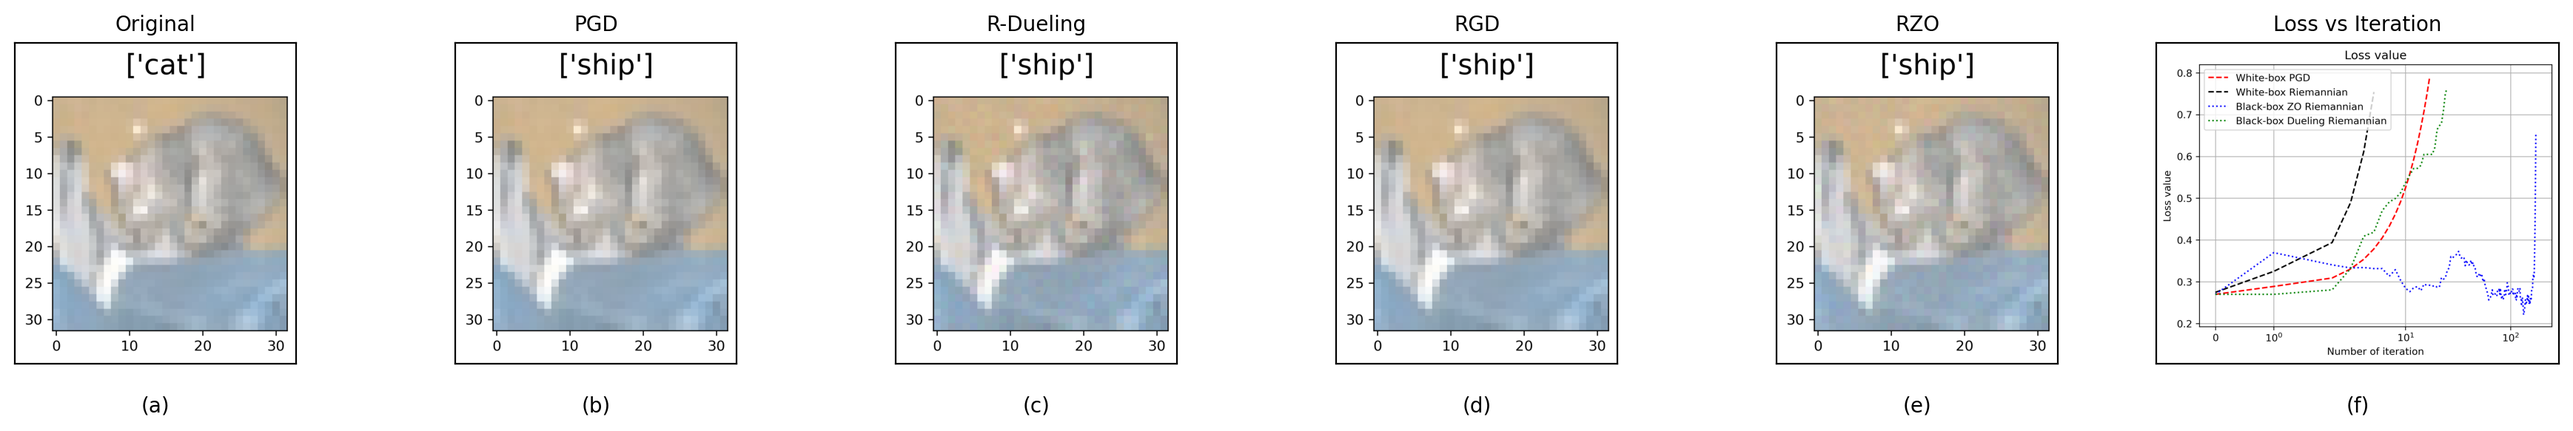
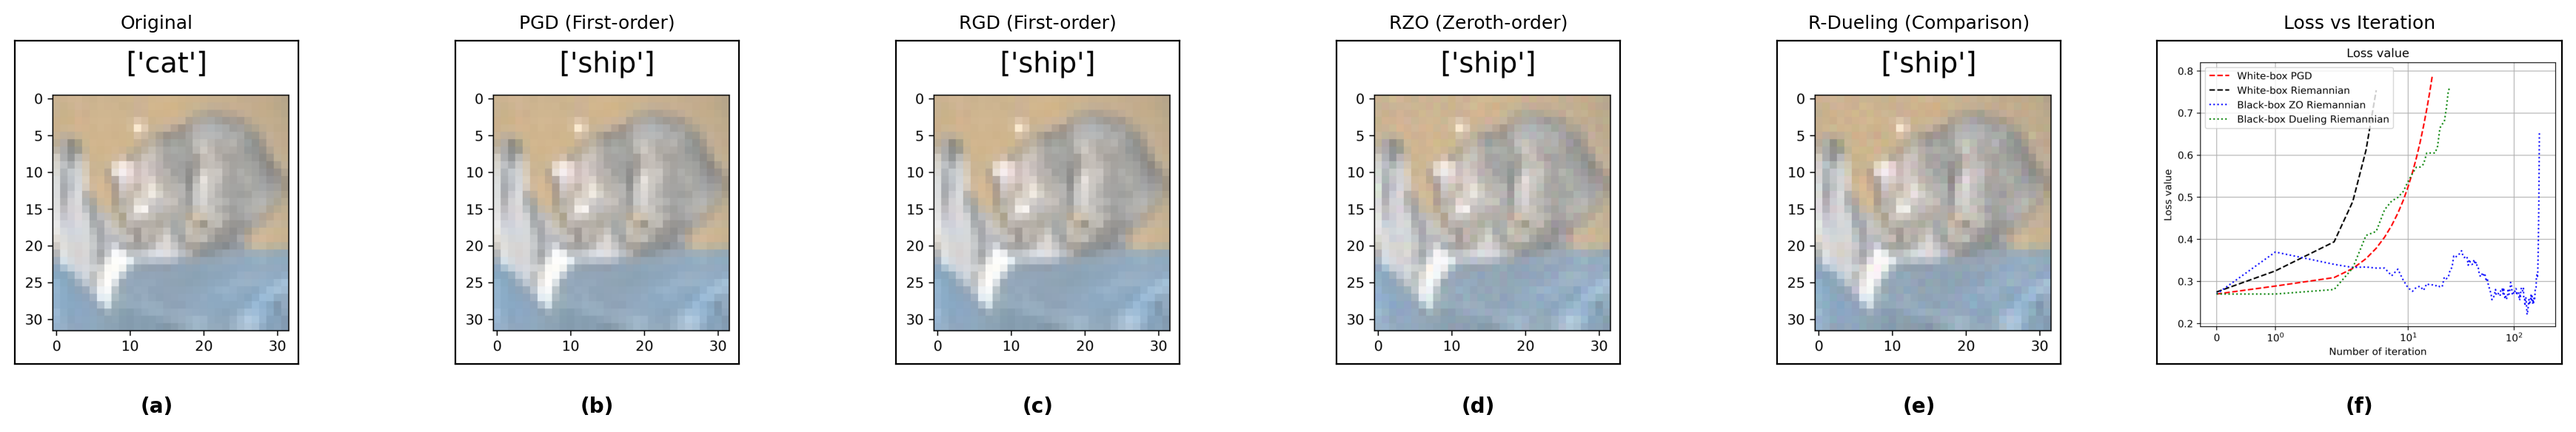
change plots order

diff --git a/scripts/make_figure.py b/scripts/make_figure.py
@@ -2,22 +2,32 @@ import os
 from PIL import Image
 import matplotlib.pyplot as plt
 
+# --- Configuration ---
 results_dir = "results"
-prefix = "1_"  
+prefix = "1_"  # change this prefix to select another example
 out_path = os.path.join(results_dir, f"{prefix}figure.png")
 
+# Order of images (a)-(f)
 order = [
-    f"{prefix}Original_['cat'].png",   # (a)
-    f"{prefix}PGD_['ship'].png",       # (b)
-    f"{prefix}RDueling_['ship'].png",  # (c)
-    f"{prefix}RGD_['ship'].png",       # (d)
-    f"{prefix}RZO_['ship'].png",       # (e)
-    f"{prefix}loss_vs_iteration.png"   # (f)
+    f"{prefix}Original_['cat'].png",     # (a)
+    f"{prefix}PGD_['ship'].png",         # (b)
+    f"{prefix}RGD_['ship'].png",         # (c)
+    f"{prefix}RZO_['ship'].png",         # (d)
+    f"{prefix}RDueling_['ship'].png",    # (e)
+    f"{prefix}loss_vs_iteration.png"     # (f)
 ]
 
 labels = ["(a)", "(b)", "(c)", "(d)", "(e)", "(f)"]
-titles = ["Original", "PGD", "R-Dueling", "RGD", "RZO", "Loss vs Iteration"]
+titles = [
+    "Original",
+    "PGD (First-order)",
+    "RGD (First-order)",
+    "RZO (Zeroth-order)",
+    "R-Dueling (Comparison)",
+    "Loss vs Iteration"
+]
 
+# --- Load images ---
 imgs = []
 for fn in order:
     path = os.path.join(results_dir, fn)
@@ -27,18 +37,24 @@ for fn in order:
         imgs.append(None)
         print(f"[Warning] Missing: {fn}")
 
-
+# --- Create figure ---
 fig, axes = plt.subplots(1, 6, figsize=(18, 3))
+
 for i, ax in enumerate(axes):
     img = imgs[i]
     if img is not None:
         ax.imshow(img)
-        ax.set_title(titles[i], fontsize=10)
+        ax.set_title(titles[i], fontsize=9)
+    else:
+        ax.text(0.5, 0.5, "Missing", ha="center", va="center", fontsize=9, color="red")
+        ax.set_facecolor("lightgray")
+
     ax.set_xticks([])
     ax.set_yticks([])
-    ax.text(0.5, -0.15, labels[i], transform=ax.transAxes, ha="center", fontsize=10)
+    ax.text(0.5, -0.15, labels[i], transform=ax.transAxes,
+            ha="center", fontsize=10, fontweight="bold")
 
 plt.tight_layout()
 plt.savefig(out_path, dpi=200, bbox_inches="tight")
 plt.close()
-print(f"Saved combined figure: {out_path}")
+print(f"[Saved] Combined figure → {out_path}")

diff --git a/README.md b/README.md
@@ -30,13 +30,13 @@ The six subplots represent:
 
 **First-order methods** (require gradient information):  
 (b) Projected Gradient Descent (PGD) attack result  
-(d) Riemannian Gradient Descent (RGD) attack result  
+(c) Riemannian Gradient Descent (RGD) attack result  
 
 **Zeroth-order methods** (require function values only):  
-(e) RZO attack result  
+(d) Riemannian Zeroth Order (RZO) attack result  
 
 **Comparison-oracle method:**  
-(c) Riemannian Dueling (R-Dueling) attack result  
+(e) Riemannian Dueling (R-Dueling) attack result  
 
 (f) Loss vs. iteration
 
@@ -126,3 +126,5 @@ The dataset used for the **Horizon-Leveling Optimization** experiments is the **
 
 > *Note:* The **CIFAR-10** dataset used in the *Dueling Attack* experiments is a public benchmark dataset originally introduced by **Alex Krizhevsky, Vinod Nair, and Geoffrey Hinton** (2009).  
 > [CIFAR-10 Dataset Page](https://www.cs.toronto.edu/~kriz/cifar.html)
+
+
